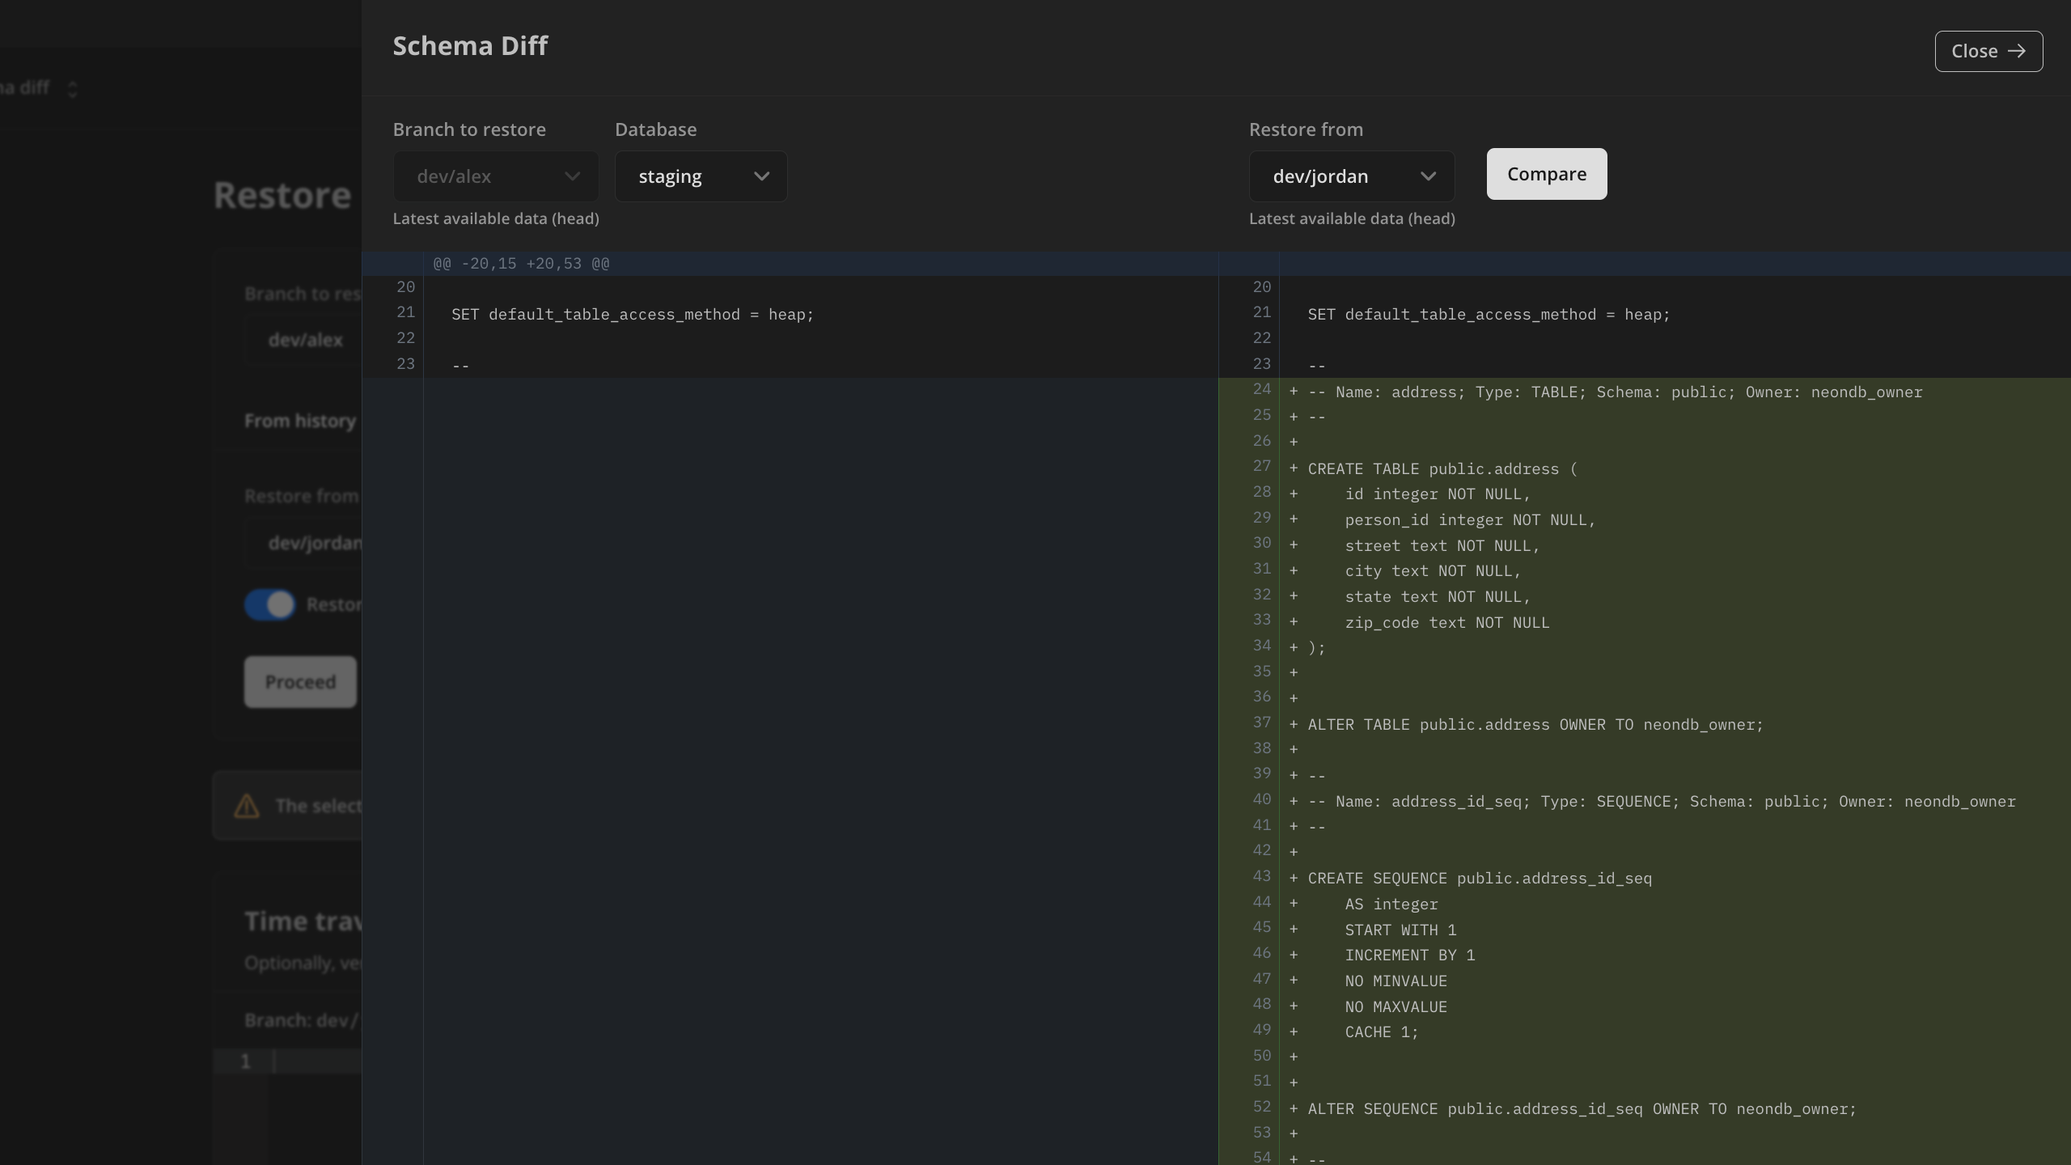
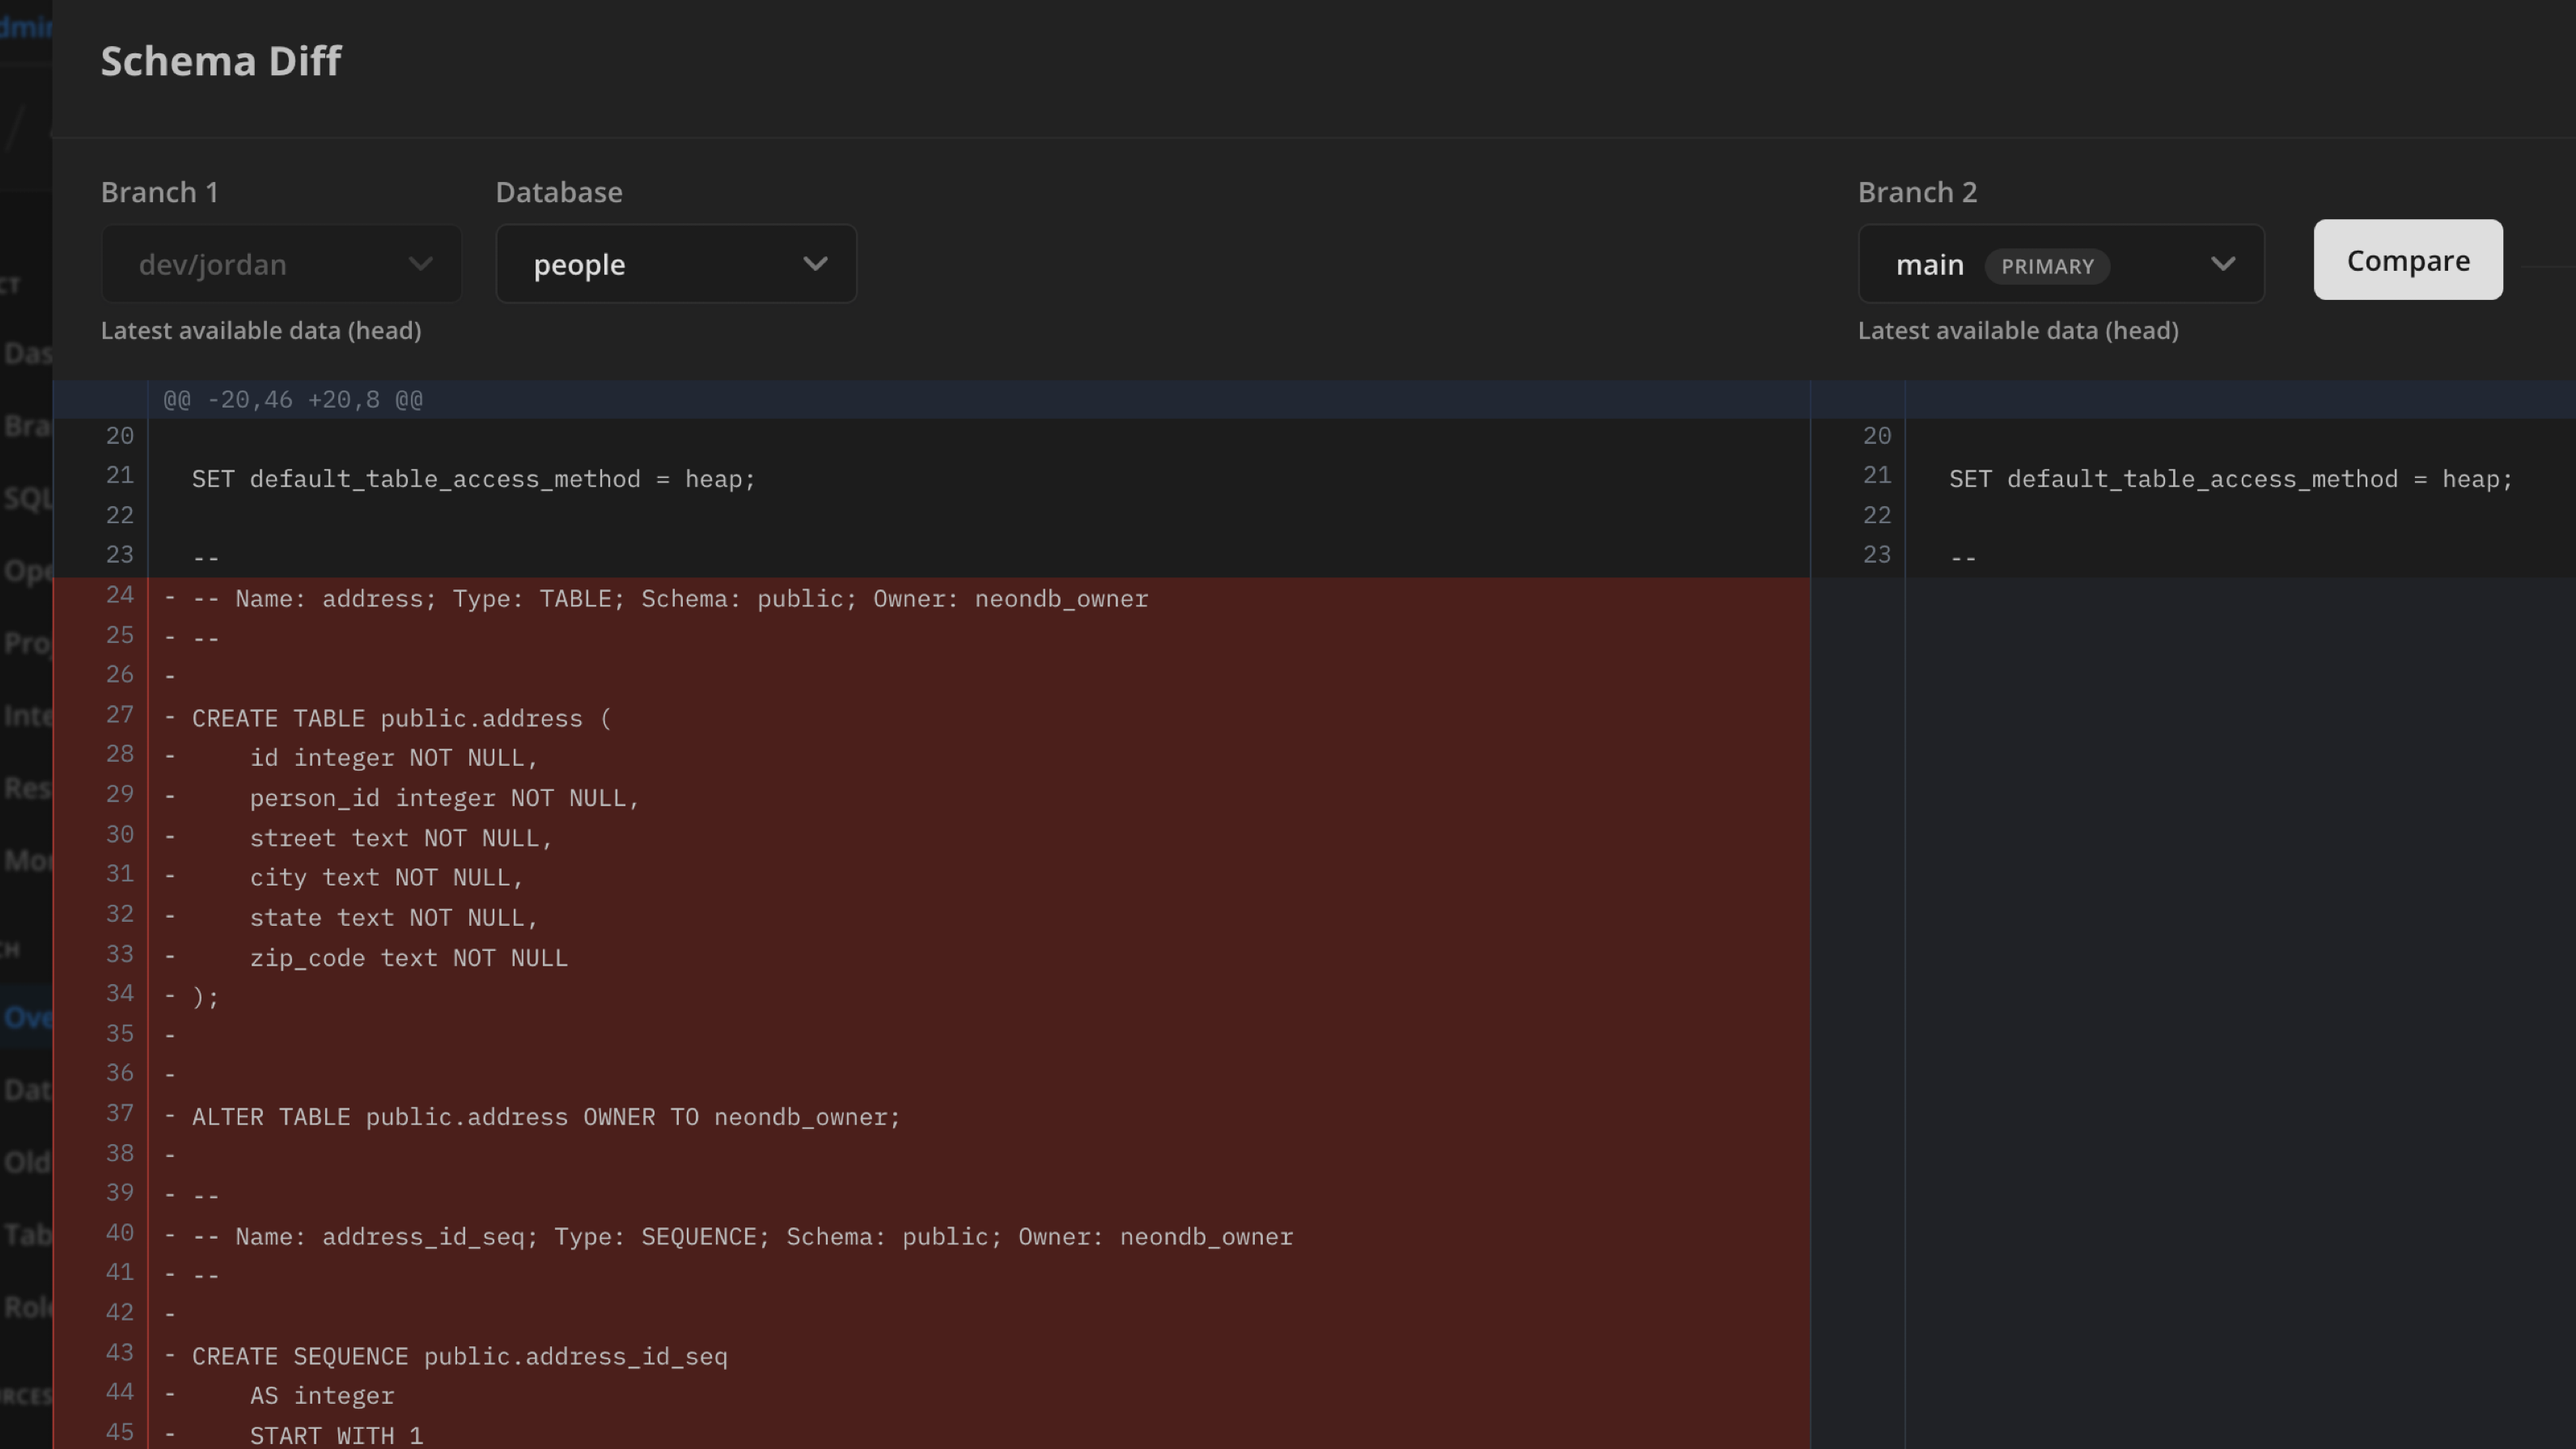
docs: updates

diff --git a/content/docs/guides/schema-diff-tutorial.md b/content/docs/guides/schema-diff-tutorial.md
@@ -6,31 +6,33 @@ enableTableOfContents: true
 
 <ComingSoon/>
 
-In this guide we will create an initial schema on a new database called `staging` on our `main` branch. We'll then create two child development branches called `dev/alex` and `dev/jordan`, following our recommended convention for naming development branches. After making schema changes on `dev/jordan`, we we'll use the **Schema Diff** tool on the **Restore** page to get a side-by-side, Github-style visual comparison between these two development branches.
+In this guide we will create an initial schema on a new database called `people` on our `main` branch. We'll then create a development branch called `dev/jordan`, following our recommended convention for naming development branches. After making schema changes on `dev/jordan`, we'll use the **Schema Diff** tool on the **Branches** page to get a side-by-side, Github-style visual comparison between the `dev/jordan` development branch and `main`.
+
+## Before you start
+
+To complete this tutorial, you'll need:
+
+- A Neon account. Sign up [here](/docs/get-started-with-neon/signing-up).
+- To interact with your Neon database from the command line:
+
+    - Install the [Neon CLI](docs/reference/cli-install)
+    - Download and install the [psql](https://www.postgresql.org/download/) client
 
 ## Step 1: Create the Initial Schema
 
-Start by creating a new `staging` database using the CLI. If you've got multiple projects, include `--project-id`.
+First, create a new database called `people` on the `main` branch and add some sample data to it.
 
-```bash
-neonctl databases create --name staging
-```
+<Tabs labels={["Console", "CLI"]}>
 
-Now create the initial schema that will serve as the base from which future changes and branches will diverge.
+<TabItem>
 
-1. First, copy your connection string:
+1. Create the database.
 
-    ```bash
-    neonctl connection-string --database-name staging
-    ```
+    In the **Neon Console**, go to **Databases** &#8594; **New Database**. Make sure your `main` branch is selected, then create the new database called `people`.
 
-2. Connect to the `staging`` with psql:
+1. Add the schema.
 
-    ```bash
-    psql 'postgres://neondb_owner:*********@ep-crimson-frost-a5i6p18z.us-east-2.aws.neon.tech/staging?sslmode=require'
-    ```
-
-2. Create the schema:
+    Go to the **SQL Editor**, enter the following SQL statement and click **Run** to apply.
 
     ```sql
     CREATE TABLE person (
@@ -40,65 +42,142 @@ Now create the initial schema that will serve as the base from which future chan
     );
     ```
 
-## Step 2: Create your team's branches
+</TabItem>
 
-If you're still in `psql`, exit using `\q`. Using the CLI, create child branches for each member of your team. Include `--project-id` if you have multiple projects.
+<TabItem>
 
-```bash
-neonctl branches create --name dev/alex --parent main
-```
+1. Create the database.
 
-```bash
-neonctl branches create --name dev/jordan --parent main
-```
-
-If you want to verity that these branches include the initial schema, connect to that branch and view the `person` table.
-
-1. Here's how to get the connection string for the `staging` database on branch `dev/alex` using the CLI.
+    Use the following CLI command to create the `people` database.
 
     ```bash
-    neonctl connection-string dev/alex --database-name staging
+    neonctl databases create --name people
     ```
-
-    This gives you the connection string which you can then copy.
+    <Admonition type="note">
+    If you have multiple projects, include `--project-id`. Or set the project context so you don't have to specify project id in every command. Example:
 
     ```bash
-    postgres://neondb_owner:*********@ep-hidden-rain-a5pe72oi.us-east-2.aws.neon.tech/staging?sslmode=require
+    neonctl set-context --project-id empty-glade-66712572
     ```
 
-1. Connect to `staging` using psql.
+    </Admonition>
+1. Copy your connection string:
 
     ```bash
-    psql 'postgres://neondb_owner:*********@ep-hidden-rain-a5pe72oi.us-east-2.aws.neon.tech/staging?sslmode=require'
+    neonctl connection-string --database-name people
     ```
 
-1. View the schema for the `person` table we created earlier.
+1. Connect to the `people` database with psql:
 
     ```bash
-    \d person
+    psql 'postgres://neondb_owner:*********@ep-crimson-frost-a5i6p18z.us-east-2.aws.neon.tech/people?sslmode=require'
     ```
 
-    Which shows you the schema:
+1. Create the schema:
+
+    ```sql
+    CREATE TABLE person (
+        id SERIAL PRIMARY KEY,
+        name TEXT NOT NULL,
+        email TEXT UNIQUE NOT NULL
+    );
+    ```
+
+</TabItem>
+</Tabs>
+
+## Step 2: Create a development branch
+
+Create a new development branch off of `main`. This branch will be an exact, isolated copy of `main`.
+
+For the purposes of this tutorial, name the branch `dev/jordan`, following our recommended convention of creating a long-lived development branch for each member of your team.
+
+<Tabs labels={["Console", "CLI"]}>
+
+<TabItem>
+
+1. Create the development branch
+
+    On the **Branches** page, click **Create Branch**, making sure of the following:
+
+    - Select `main` as the primary branch.
+    - Name the branch `dev/jordan`.
+
+1. Verify the schema on your new branch
+
+    From the **SQL Editor**, use the meta-command `/d person` to inspect the schema of the `person` table. Make sure that the `people` database on the branch `dev/jordan` is selected.
+
+    ![use metacommand to inspect schema](/docs/guides/schema_diff_d_metacommand.png)
+
+</TabItem>
+
+<TabItem>
+
+1. Create the branch
+
+    If you're still in `psql`, exit using `\q`. 
+
+    Using the Neon CLI, create the development branch. Include `--project-id` if you have multiple projects.
 
     ```bash
-    Table "public.person"
-    Column |  Type   | Collation | Nullable |              Default               
-    --------+---------+-----------+----------+------------------------------------
-    id     | integer |           | not null | nextval('person_id_seq'::regclass)
-    name   | text    |           | not null | 
-    email  | text    |           | not null | 
-    Indexes:
-        "person_pkey" PRIMARY KEY, btree (id)
-        "person_email_key" UNIQUE CONSTRAINT, btree (email)
+    neonctl branches create --name dev/jordan --parent main
     ```
 
-You can do the same thing for your `dev/jordan` branch and get identical results.
+1. Verify the schema
+
+    To verify that this branch includes the initial schema created on `main`, connect to `dev/jordan`, then view the `person` table.
+
+    1. Get the connection string for the `people` database on branch `dev/jordan` using the CLI.
+
+        ```bash
+        neonctl connection-string dev/jordan --database-name people
+        ```
+
+        This gives you the connection string which you can then copy.
+
+        ```bash
+        postgres://neondb_owner:*********@ep-hidden-rain-a5pe72oi.us-east-2.aws.neon.tech/people?sslmode=require
+        ```
+
+    1. Connect to `people` using psql.
+
+        ```bash
+        psql 'postgres://neondb_owner:*********@ep-hidden-rain-a5pe72oi.us-east-2.aws.neon.tech/people?sslmode=require'
+        ```
+
+    1. View the schema for the `person` table we created earlier.
+
+        ```bash
+        \d person
+        ```
+
+        Which shows you the schema:
+
+        ```bash
+        Table "public.person"
+        Column |  Type   | Collation | Nullable |              Default               
+        --------+---------+-----------+----------+------------------------------------
+        id     | integer |           | not null | nextval('person_id_seq'::regclass)
+        name   | text    |           | not null | 
+        email  | text    |           | not null | 
+        Indexes:
+            "person_pkey" PRIMARY KEY, btree (id)
+            "person_email_key" UNIQUE CONSTRAINT, btree (email)
+        ```
+
+        You can do the same thing for your `main` branch and get identical results.
+
+</TabItem>
+</Tabs>
 
 ## Step 3: Update schema on a dev branch
 
-Now, let's make some schema changes on the dedicated branch for `dev\jordan`, adding a new table to store relevant addresses.
+Let's introduce some differences between the two branches. Add a new table to store addresses on the `dev/jordan` branch.
 
-This time, we'll use the **SQL Editor** in the Neon Console. Make sure you select `dev\jordan` as the branch and `staging` as the database.
+<Tabs labels={["Console","CLI"]}>
+
+<TabItem>
+In the **SQL Editor**, make sure you select `dev/jordan` as the branch and `people` as the database.
 
 Enter this SQL statemenet to create a new `address` table.
 
@@ -114,17 +193,58 @@ CREATE TABLE address (
 );
 ```
 
+</TabItem>
+
+<TabItem>
+
+1. Connect to dev/jordan
+
+    By adding `--psql` to the CLI command, you can start the `psql` connection without having to enter the connection string directly:
+
+    ```bash
+    neonctl connection-string dev/jordan --database-name people --psql
+    ```
+
+    Response:
+
+    ```bash
+    INFO: Connecting to the database using psql...
+    psql (16.1, server 16.2)
+    SSL connection (protocol: TLSv1.3, cipher: TLS_AES_256_GCM_SHA384, compression: off)
+    Type "help" for help.
+
+    people=> 
+    ```
+
+1. Add a new address table
+
+    ```sql
+    CREATE TABLE address (
+        id SERIAL PRIMARY KEY,
+        person_id INTEGER NOT NULL,
+        street TEXT NOT NULL,
+        city TEXT NOT NULL,
+        state TEXT NOT NULL,
+        zip_code TEXT NOT NULL,
+        FOREIGN KEY (person_id) REFERENCES person(id)
+    );
+    ```
+
+</TabItem>
+</Tabs>
+
 ## Step 4: Visualize the schema differences
 
-From the Neon Console, go to the **Restore** page. The Schema Diff tool is meant to assist you with restoring branches and is built into the Time Travel assist editor. Just like with Time Travel assist, your first step is to choose a target and source branch:
+Now that you have some differences between your branches, from the Neon Console go to the **Branches** page.
 
-1. For the target, using the **Branch to restore** dropdown, select `dev\alex`.
-1. For the source, switch to the **From another branch** tab and from the **Restore from** dropdown, select `dev\jordan`.
+1. Click on `dev/jordan` to open the detailed view, then under **Compare to Parent** click **Open schema diff**.
 
-   ![select branches for schema diff](/docs/guides/schema_diff_make_selection.png)
+    ![select branches for schema diff](/docs/guides/schema_diff_make_selection.png)
 
-1. In the Time travel assist editor, click the **Schema Diff** button. Verify that your selections are correct and press **Compare**.
+1. Make sure you select `people` as the database and then click **Compare**.
 
     ![schema diff results](/docs/guides/schema_diff_result.png)
 
-    You will see the schema differences between the two develpment branches, including the new address table that we added to the `dev\jordan` branch.
+You will see the schema differences between `dev/jordan` and its parent `main`, including the new address table that we added to the `dev/jordan` branch.
+
+You can also launch Schema Diff from the **Restore** page, usually as part of verifying schemas before you restore a branch to its own or another branch's history. See [Branch restore](/docs/guides/branch-restore) for more info.
